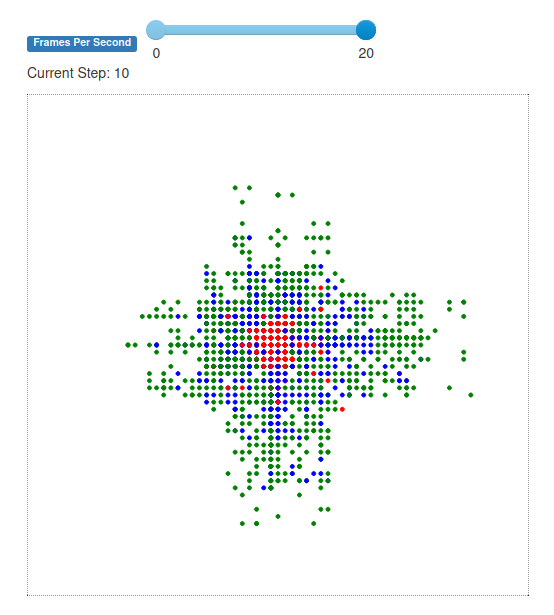
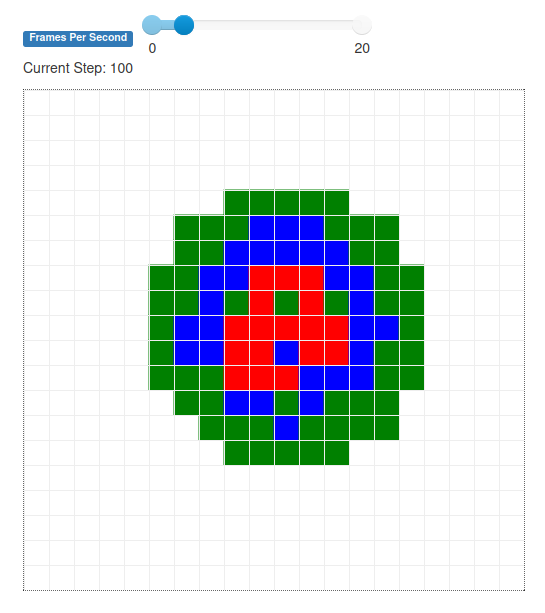
Grid

diff --git a/ABM4CWMay21/ABM4CWMay21/model.py b/ABM4CWMay21/ABM4CWMay21/model.py
@@ -8,7 +8,7 @@ Uses numpy arrays to represent vectors.
 import numpy as np
 
 from mesa import Model
-from mesa.space import ContinuousSpace
+from mesa.space import SingleGrid
 from mesa.time import RandomActivation
 
 from .farmers import Farmer
@@ -32,7 +32,8 @@ class Simulation(Model):
         self.vision = vision
         self.products = products
         self.schedule = RandomActivation(self)
-        self.space = ContinuousSpace(width, height, True)
+        self.grid = SingleGrid(width, height, False)
+        self.center = int(width/2), int(height/2)
         self.ids = 0
         self.make_agents()
         self.running = True
@@ -44,30 +45,48 @@ class Simulation(Model):
         """
         if not n:
             n = self.population
-        # Get some positions on the grid
-        pos = np.array([(x, y) for x in range(0, self.space.width) for y in range(0, self.space.height)])
-        # Choose population from the grid
-        new_pos = pos[np.random.choice(pos.shape[0], n, replace=False), :]
         types = np.random.choice(list(self.products), size=n, p=[self.products[k]['size'] for k in self.products])
         for i in range(n):
-            farmer = Farmer(self.ids, self, new_pos[i], self.products[types[i]],
+            farmer = Farmer(self.ids, self, None, self.products[types[i]],
                             self.products[types[i]]['productivity'],
                             self.products[types[i]]['transport'],
                             self.products[types[i]]['color'])
-            self.space.place_agent(farmer, new_pos[i])
+            self.grid.position_agent(farmer, 'random')
             self.schedule.add(farmer)
             self.ids += 1
+
+    def center(self):
+        return int(self.grid.width/2), int(self.grid.height/2)
+
+    def get_distance(self, pos_1: (int, int), pos_2: (int, int)) -> float:
+        """ Get the distance between two point, accounting for toroidal space.
+
+        Args:
+            pos_1, pos_2: Coordinate tuples for both points.
+
+        """
+        x1, y1 = pos_1
+        x2, y2 = pos_2
+
+        dx = abs(x1 - x2)
+        dy = abs(y1 - y2)
+        if self.grid.torus:
+            dx = min(dx, self.grid.width - dx)
+            dy = min(dy, self.grid.height - dy)
+        return np.sqrt(dx * dx + dy * dy)
 
     def step(self):
         # Agents steps
         self.schedule.step()
-        # Bidding for empty places
+
+        # Bidding for empty places. Model step
         on_the_market_land = list(set(x[1] for x in self.market))
-        on_the_market_land.sort(key=lambda l: self.space.get_distance(l, self.space.center))
+        on_the_market_land.sort(key=lambda l: self.get_distance(l, self.center))
+
         for empty in on_the_market_land:
             bidders = [b for b in self.market if b[1] == empty]
             if bidders:
                 winner = max(bidders, key=lambda b: b[2])
-                self.space.move_agent(winner[0], winner[1])
-                self.market.remove((winner[0], winner[1], winner[2]))
+                self.grid.move_agent(winner[0], winner[1])
+                # self.market.remove((winner[0], winner[1], winner[2]))
         self.market = list()

diff --git a/ABM4CWMay21/ABM4CWMay21/farmers.py b/ABM4CWMay21/ABM4CWMay21/farmers.py
@@ -31,47 +31,36 @@ class Farmer(Agent):
         """
         super().__init__(unique_id, model)
         self.model = model
-        self.pos = np.array(pos)
+        self.pos = pos
         # Productivity is price at the market minus cost of production (positive)
         self.types = types
         self.productivity = productivity
         self.transport = transport
         self.color = color
 
-    def get_empties(self, neighbors):
-        occupied_pos = [(n.pos[0], n.pos[1]) for n in neighbors]
-        empties = list()
-        for x in range(self.pos[0] - self.model.vision, self.pos[0] + self.model.vision):
-            for y in range(self.pos[1] - self.model.vision, self.pos[1] + self.model.vision):
-                if (x != self.pos[0]) and (y != self.pos[1]) and (x > 0) and (y > 0) \
-                        and (x < self.model.space.x_max) and (y < self.model.space.y_max):
-                    pos = x, y
-                    if pos not in occupied_pos:
-                        empties.append(pos)
-        return empties
-
     def current_income(self):
-        return self.productivity - self.model.space.get_distance(self.pos, self.model.space.center) * self.transport
+        return self.productivity - self.model.get_distance(self.pos, self.model.center) * self.transport
 
     def step(self):
         """
         Make decisions
         """
         # Get closest available position
-        neighbors = self.model.space.get_neighbors(self.pos, self.model.vision, False)
+        neighborhood = self.model.grid.get_neighborhood(self.pos, moore=True,
+                                                        include_center=False, radius=self.model.vision)
         # Calculating neighborhood based on integers for positions, radius=2
-        empties = self.get_empties(neighbors)
+        empties = self.model.grid.empties
         current = self.current_income()
         # If more profitable move
         if empties:
-            new_pos = min(empties, key=lambda f: self.model.space.get_distance(f, self.model.space.center))
-            new_income = self.productivity - self.model.space.get_distance(new_pos, self.model.space.center) * self.transport
+            new_pos = min(empties, key=lambda f: self.model.get_distance(f, self.model.center))
+            new_income = self.productivity - self.model.get_distance(new_pos, self.model.center) * self.transport
             if new_income > current:
                 self.model.market.append((self, new_pos, new_income))
                 return
         if current > 0:
             return
-        self.model.space.remove_agent(self)
+        self.model.grid.remove_agent(self)
         self.model.schedule.remove(self)
         self.model.make_agents(n=1)
 

diff --git a/ABM4CWMay21/ABM4CWMay21/server.py b/ABM4CWMay21/ABM4CWMay21/server.py
@@ -1,25 +1,28 @@
-from mesa.visualization.ModularVisualization import ModularServer
 
+from mesa.visualization.modules import CanvasGrid
+from mesa.visualization.ModularVisualization import ModularServer
 from .model import Simulation
-from .SimpleContinuousModule import SimpleCanvas
 
 # Products: Name: productivity, size
 full_size = 10
 products = {'Dairy': {'productivity': 300, 'size': 2/10, 'color': 'Red', 'transport': 1},
-            'Crops': {'productivity': 200, 'size': 3/10, 'color': 'Blue', 'transport': 2},
+            'Crops': {'productivity': 200,
+                      'size': 3/10, 'color': 'Blue', 'transport': 2},
             'Grazing': {'productivity': 150, 'size': 1 - 5/10, 'color': 'Green', 'transport': 3}}
 
 
 def farm_draw(agent):
-    return {"Shape": "circle", 'r': 2, "Filled": "true", "Color": agent.color}
+    return {"Shape": "rect", 'w': 1, 'h': 1, 'Layer': 0,
+            "Filled": "true",
+            "Color": agent.color, 'x': agent.pos[0], 'y': agent.pos[1]}
 
 
-town_canvas = SimpleCanvas(farm_draw, 500, 500)
+town_canvas = CanvasGrid(farm_draw, 20, 20, 500, 500)
 model_params = {
-    "population": 2000,
-    "width": 70,
-    "height": 70,
-    'vision': 7,
+    "population": 100,
+    "width": 20,
+    "height": 20,
+    'vision': 4,
     'products': products}
 
 server = ModularServer(Simulation, [town_canvas], "Farmers", model_params)
